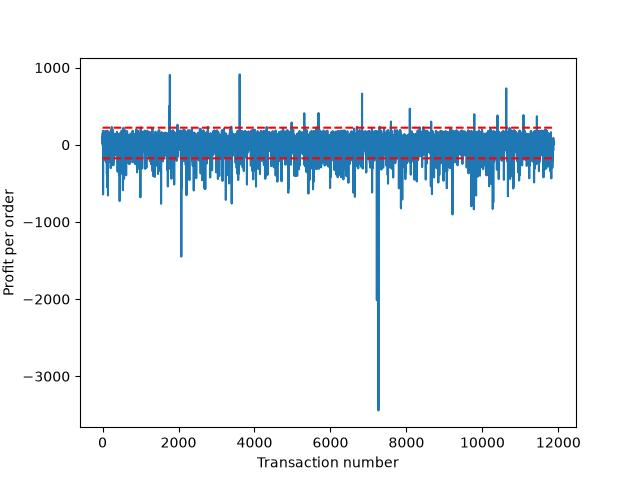
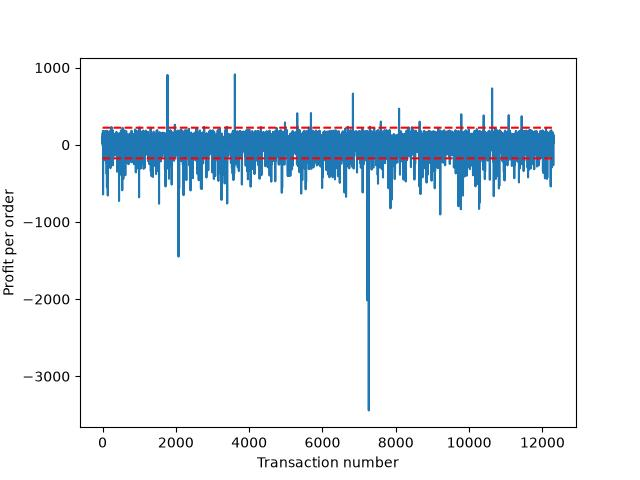
Starting linear regression analysis on Caguas

diff --git a/linear_regression.py b/linear_regression.py
@@ -1,0 +1,80 @@
+import pandas as pd
+import numpy as np
+import matplotlib.pyplot as plt
+from kaggle_install import path
+from datetime import datetime
+
+csv_path = path + f"\\incom2024_delay_example_dataset.csv"
+data_frame = pd.read_csv(csv_path)
+
+c_df = data_frame[ data_frame['customer_city'] == 'Caguas' ]
+c_df["shipping_date"] = pd.to_datetime(c_df["shipping_date"], format="%Y-%m-%d %H:%M:%S%z", utc=True)
+c_df.set_index('shipping_date', inplace=True)
+c_df.sort_index(inplace=True)
+c_df["profit_per_order_delta_lag_1"] = c_df.profit_per_order.diff().shift(-1)
+
+dept_name_arr = ['Fitness', 'Golf', 'Fan Shop', 'Apparel', 'Footwear', 'Outdoors', 'Technology', 'Pet Shop', 'Book Shop', 'Discs Shop', 'Health and Beauty ']
+market_arr = ['LATAM', 'Pacific Asia', 'Europe', 'Africa', 'USCA']
+
+def graph_time_series(df: pd.DataFrame, dependent_var: str, freq: str, kind:str="line", start=None) -> None:
+    time_series = df[dependent_var].resample(freq).mean()
+    if start is not None:
+        time_series = time_series[time_series.index >= start]
+
+    if kind == "line":
+        time_series.plot()
+    elif kind == "scatter":
+        plt.scatter(x=time_series.index, y=time_series.values, s=2)
+    else:
+        raise ValueError(f"Unsupported graph type: {kind}")
+    plt.xlabel("Time")
+    plt.ylabel(dependent_var)
+    plt.show()
+
+def categorical_data_before_and_after(df: pd.DataFrame, tbreak: str) -> None:
+    try:
+        datetime.strptime(tbreak, "%Y-%m-%d")
+    except ValueError:
+        raise ValueError(f"tbreak must be in YYYY-MM-DD format: {tbreak}")
+
+    before = df[ df.index < tbreak ]
+    after = df[ df.index >= tbreak ]
+    before_dict = {}
+    after_dict = {}
+    for dept in dept_name_arr:
+        before_dict[dept] = len(before[ before["department_name"] == dept ])
+        after_dict[dept] = len(after[ after["department_name"] == dept ])
+    for market in market_arr:
+        before_dict[market] = len(before[ before["market"] == market ])
+        after_dict[market] = len(after[ after["market"] == market ])
+    before_dept_arr = np.array(list(before_dict.values())[0:len(dept_name_arr)]) / len(before)
+    before_market_arr = np.array(list(before_dict.values())[len(dept_name_arr):]) / len(before)
+    after_dept_arr = np.array(list(after_dict.values())[0:len(dept_name_arr)]) / len(after)
+    after_market_arr = np.array(list(after_dict.values())[len(dept_name_arr):]) / len(after)
+    if not np.isclose(np.sum(before_dept_arr), 1):
+        raise RuntimeError("Before department array not successfully normalized")
+    if not np.isclose(np.sum(after_dept_arr), 1):
+        raise RuntimeError("After department array not successfully normalized")
+    if not np.isclose(np.sum(before_market_arr), 1):
+        raise RuntimeError("Before market array not successfully normalized")
+    if not np.isclose(np.sum(after_market_arr), 1):
+        raise RuntimeError("After market array not successfully normalized")
+    for (bf, af) in [(before_dept_arr, after_dept_arr), (before_market_arr, after_market_arr)]:
+        w, x = 0.3, np.arange(len(bf))
+        _, ax = plt.subplots()
+        ax.bar(x - w / 2, bf, width=w, label=f"Before {tbreak}")
+        ax.bar(x + w / 2, af, width=w, label=f"After {tbreak}")
+        ax.legend()
+        ax.set_xticks(x)
+        ax.set_ylabel("Sale Percentage")
+        if len(bf) == len(dept_name_arr):
+            ax.set_title("Department Sales Info Before vs After")
+            ax.set_xticklabels([ dept[0:3] for dept in dept_name_arr ])
+        else:
+            ax.set_title("Market Sales Info Before vs After")
+            ax.set_xticklabels(market_arr)
+        plt.show()
+        plt.close()
+
+graph_time_series(c_df, "profit_per_order_delta_lag_1", "ME")
+categorical_data_before_and_after(c_df, '2018-01-01')
